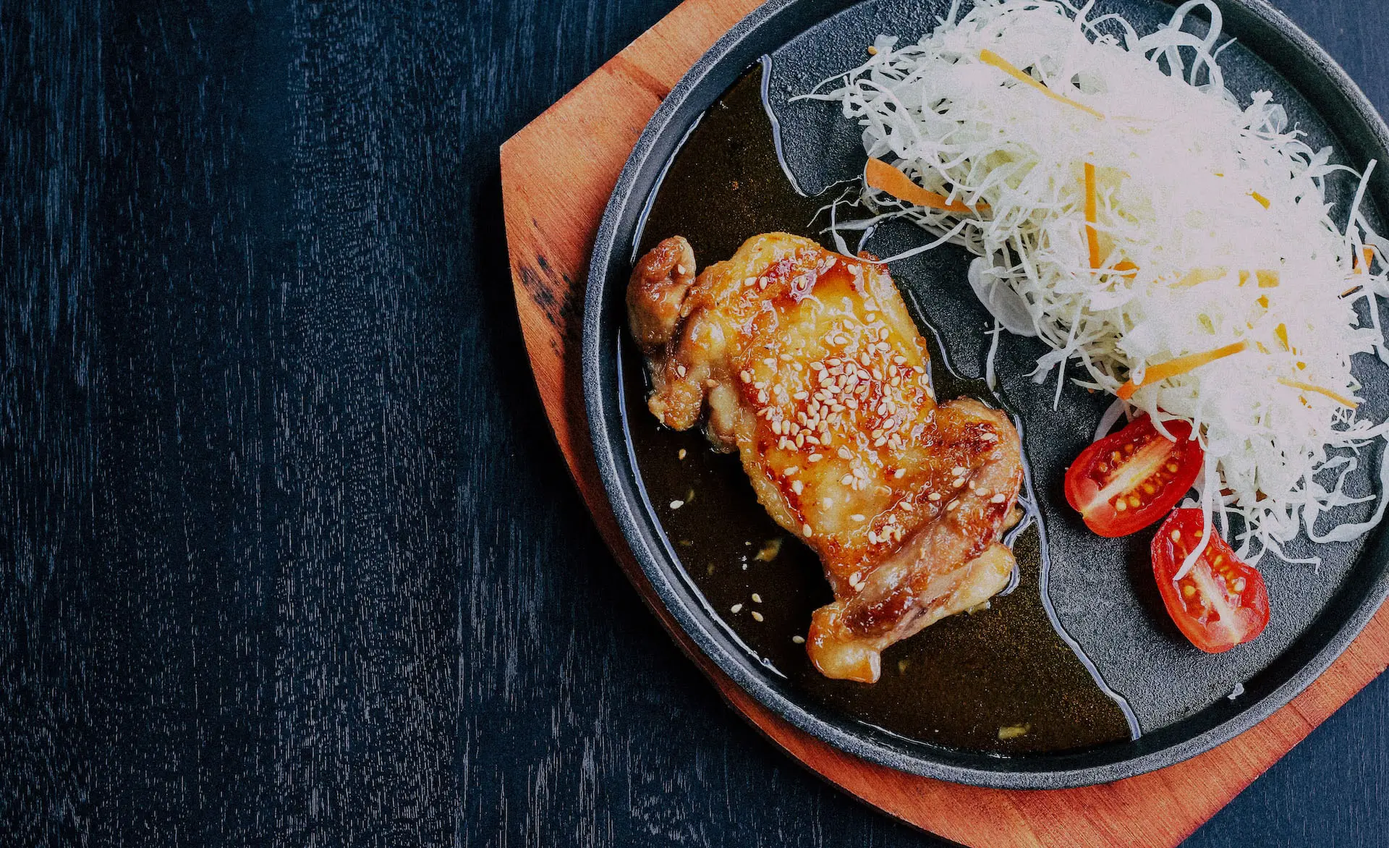
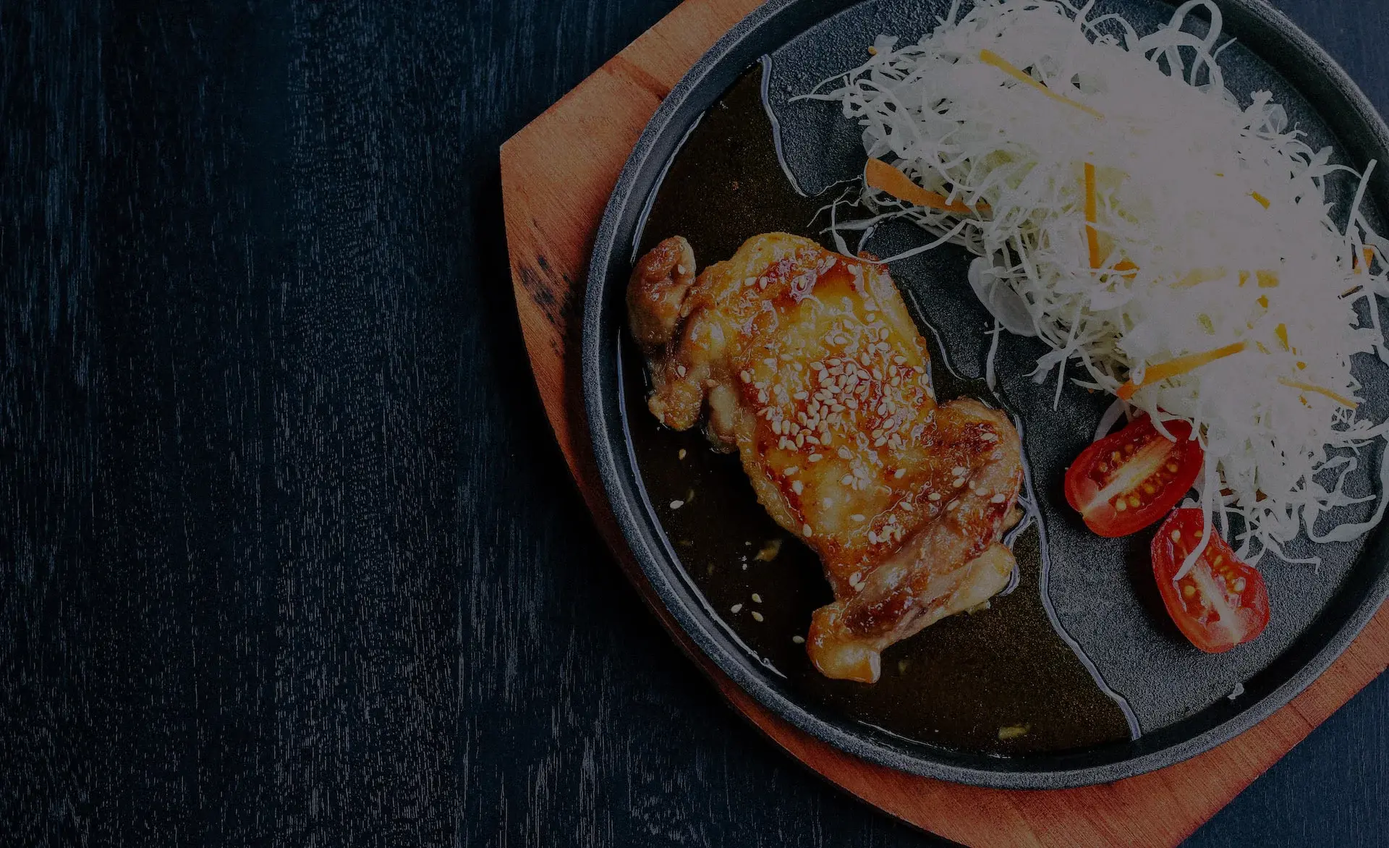
Modify hero image and add content for hero section

diff --git a/app/page.tsx b/app/page.tsx
@@ -4,8 +4,8 @@ import { FiInstagram, FiTwitter, FiFacebook } from 'react-icons/fi';
 export default function Home() {
   return (
     <>
-      <header className="h-screen bg-hero bg-cover bg-center bg-no-repeat">
-        <div className="flex items-center bg-slate-200/75 p-5">
+      <header className="flex h-screen flex-col bg-hero bg-cover bg-center bg-no-repeat">
+        <div className="flex items-center bg-orange-200/75 p-5">
           <div className="flex flex-1 justify-start">
             <h1 className="text-2xl font-bold">
               <Link href="/">Thicken Thighs</Link>
@@ -57,6 +57,24 @@ export default function Home() {
             </div>
           </div>
         </div>
+
+        <section className="flex h-full p-10">
+          <div className="m-auto flex max-w-xl flex-col xl:max-w-3xl">
+            <p className="mb-10 text-3xl font-bold text-white sm:text-5xl md:text-6xl xl:text-7xl">
+              <span className="block">Unleash Boldness,</span>
+              <span className="mt-3 block">Embrace Slowness.</span>
+            </p>
+            <p className="mb-10 text-base text-white/80 sm:text-xl">
+              At <span>Thicken Thighs</span>, you need to prepare for a culinary
+              adventure that is so slow, it will have you questioning the
+              meaning of haste in the most outrageously delicious way possible.
+            </p>
+            <button className="mt-4 w-fit rounded-bl-3xl rounded-br-md rounded-tl-md rounded-tr-3xl bg-orange-400  p-3 text-lg text-white sm:p-4">
+              Make A Reservation
+            </button>
+          </div>
+          <div className="hidden flex-1 md:block"></div>
+        </section>
       </header>
 
       <section className="m-5">
